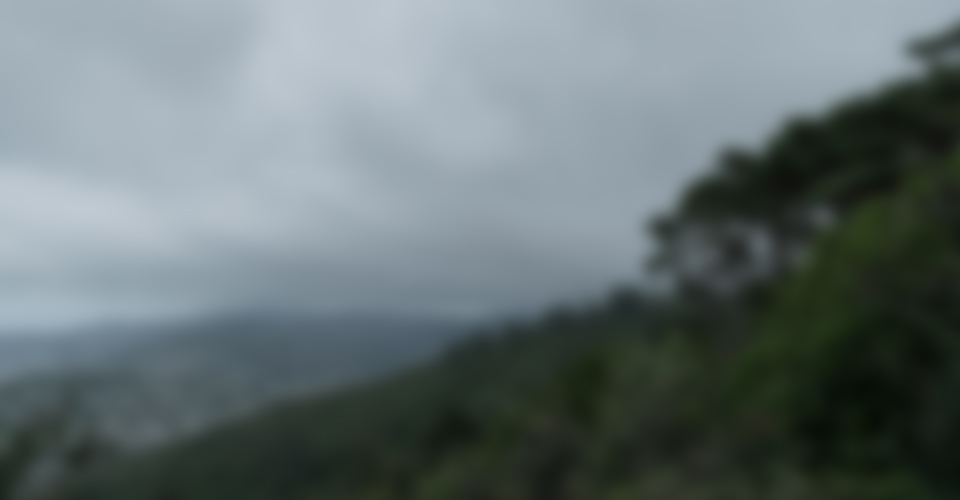
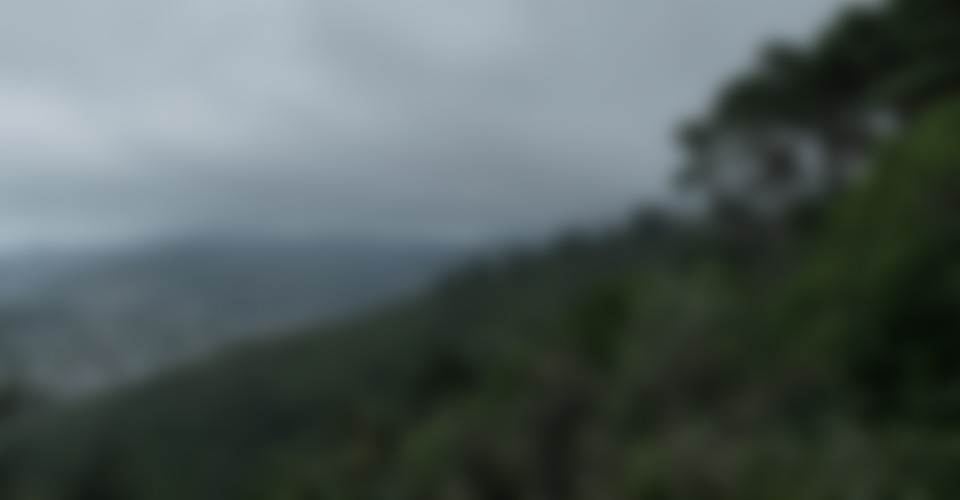
Improved colours

diff --git a/framework/styles.css b/framework/styles.css
@@ -276,7 +276,7 @@ img {
 }
 
 .bgColor-photos {
-    background-color: #505454;
+    background-color: #464a49;
 }
 
 .bgColor-sketches {
@@ -613,7 +613,7 @@ img {
     width: 100%;
     height: 100%;
     display: flex;
-    background: linear-gradient(to bottom, #50545400, #505454ff);
+    background: linear-gradient(to bottom, #464a4900, #464a49ff);
 }
 
 .pageBanner-fadeSketches {
@@ -735,7 +735,7 @@ img {
 }
 
 .cardStandard-image {
-    background-color: #302b30;
+    background-color: #56616c;
     width: 100%;
     border-radius: 1.5rem;
     margin-top: 1rem;
@@ -824,7 +824,7 @@ img {
 /* ---------- Photography cards ---------- */
 
 .cardPhotography {
-    background-color: #505454;
+    background-color: #565b5a;
     padding: 1rem;
     border-radius: 1.5rem;
     border: none;
@@ -873,7 +873,7 @@ img {
 }
 
 .cardPhotography-description {
-    background-color: #626767;
+    background-color: #6a716f;
     font-size: 1rem;
     font-weight: 500;
     overflow: hidden;
